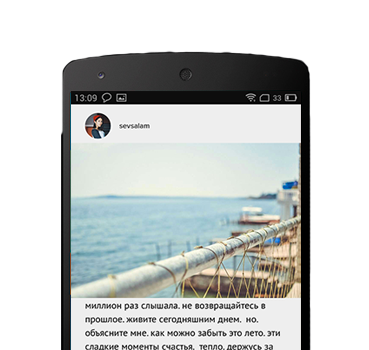
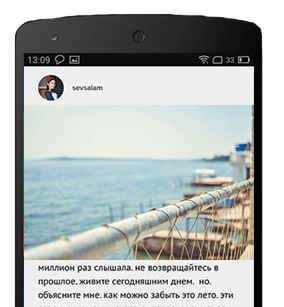
fixes site-apps

diff --git a/app/tasty__feed-friends.html b/app/tasty__feed-friends.html
@@ -123,6 +123,15 @@
                 <div class="page__paper">
                     <!-- Page Header -->
                     <header class="page-header">
+                        <!-- Site App Android -->
+                        <div class="site-app site-app--android">
+                            <img class="site-app__cover" src="images/site-app-cover-android.png" alt="" /><div class="site-app__desc">
+                                <h5 class="site-app__title">Попробуйте новое приложение Тейсти для Android</h5>
+                                <span class="site-app__badge"></span>
+                            </div>
+                            <a class="site-app__link" href="#" target="_blank"></a>
+                        </div>
+                        <!-- end Site App Android -->
                         <!-- Search -->
                         <div class="search js-search">
                             <form class="search__form" action="?">
@@ -169,15 +178,6 @@
                                     <div class="hero__text"><span>25 людей пишут анонимки</span></div>
                                 </div>
                             </div>
-                            <!-- Site App Android -->
-                            <div class="site-app site-app--android">
-                                <div class="site-app__cover"></div>
-                                <div class="site-app__desc">
-                                    <h5 class="site-app__title">Попробуйте новое приложение Тейсти для Android</h5>
-                                    <a class="site-app__link" href="#"></a>
-                                </div>
-                            </div>
-                            <!-- end Site App Android -->
                         </div>
                         <!-- end Hero -->
                     </header>

diff --git a/app/stylesheets/less/blocks/site-apps.less b/app/stylesheets/less/blocks/site-apps.less
@@ -1,40 +1,43 @@
 .site-app {
-  width: 170px;
-  height: 178px;
-  padding-left: 185px;
+  position: relative;
   text-align: left;
+  white-space: nowrap;
 
-  .hero & {
+  .page-header & {
     position: absolute;
     left: 62%;
     bottom: 0;
+    color: @white;
+    z-index: 10;
   }
 }
 
 .site-app__cover {
-  width: 188px;
-  height: 178px;
-  position: absolute;
-  top: 0;
-  left: 0;
-  background-repeat: no-repeat;
-  background-position: 0 0;
-  background-size: contain;
+  width: 118px;
+  margin-right: 15px;
+  margin-left: 27px;
+  display: inline-block;
+  vertical-align: bottom;
 }
 
 .site-app__desc {
-  padding: 25px 0 20px;
+  width: 170px;
+  padding: 3px 0 10px;
   position: relative;
+  display: inline-block;
+  vertical-align: top;
+  white-space: normal;
+  overflow: hidden;
 }
 
 .site-app__title {
   margin-bottom: 10px;
   font-weight: normal;
-  font-size: 16px;
+  font-size: 14px;
   line-height: 135%;
 }
 
-.site-app__link {
+.site-app__badge {
   width: 148px;
   height: 48px;
   display: inline-block;
@@ -44,18 +47,22 @@
   vertical-align: top;
 }
 
-.site-app--android {
-  .site-app__cover {
-    background-image: url("@{images-path}/site-app-cover-android.png");
-  }
+.site-app__link {
+  position: absolute;
+  top: 0;
+  right: 0;
+  bottom: 0;
+  left: 0;
+}
 
-  .site-app__link {
-    background-image: url("@{images-path}/site-app-link-android.png");
+.site-app--android {
+  .site-app__badge {
+    background-image: url("@{images-path}/site-app-badge-android.png");
   }
 }
 
 @media (max-width: 1000px) {
-  .hero {
+  .page-header {
     .site-app {
       padding-left: 0;
       left: 70%
